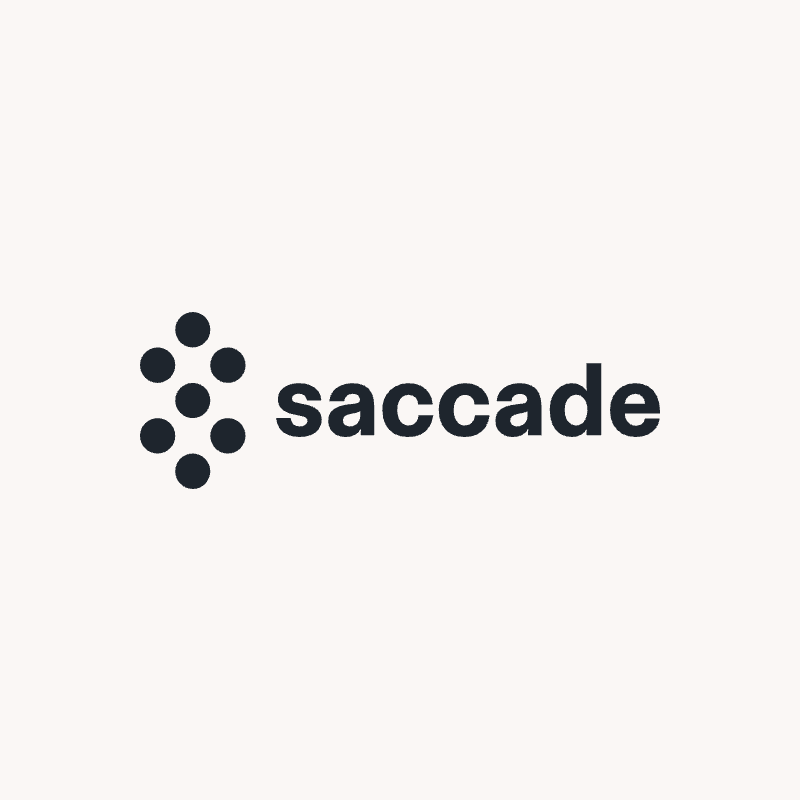
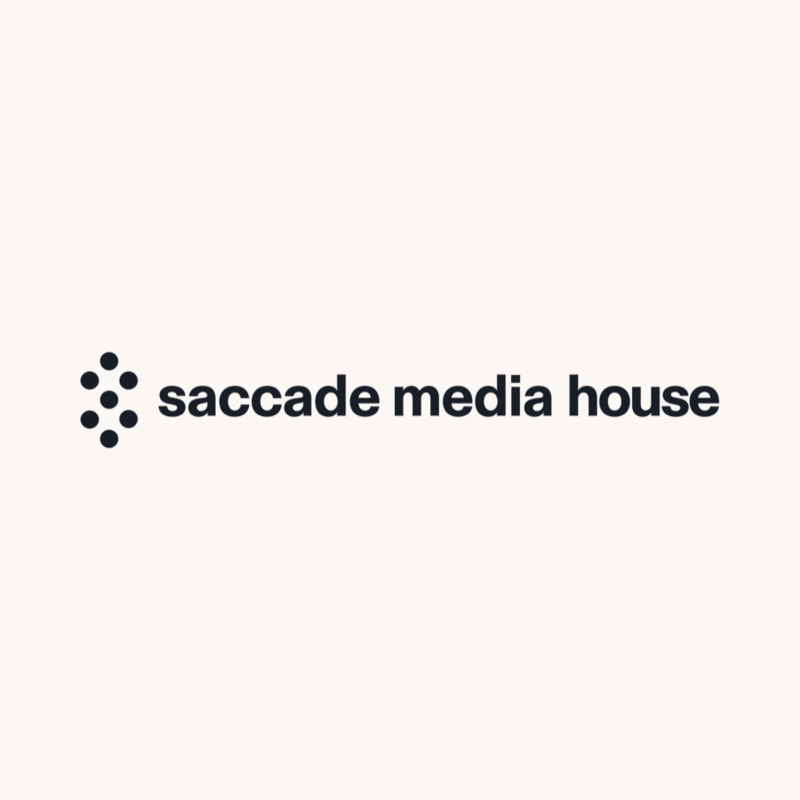
feat: полный логотип Saccade Media House на всех экранах и в подписи писем

Changed region(s): [[0.0938, 0.375, 0.9062, 0.625]]

diff --git a/app/views/errors/404.html b/app/views/errors/404.html
@@ -18,7 +18,7 @@
   </head>
   <body>
     <div class="box">
-      <div class="brand" role="img" aria-label="Saccade"><svg width="22" height="37" viewBox="0 0 310 520" fill="none" xmlns="http://www.w3.org/2000/svg" aria-hidden="true"><path d="M103.536 156.183C103.536 184.936 80.3584 208.245 51.7678 208.245C23.1772 208.245 0 184.936 0 156.183C0 127.429 23.1772 104.12 51.7678 104.12C80.3584 104.12 103.536 127.429 103.536 156.183Z" fill="#1E252D"/><path d="M206.467 52.0626C206.467 80.8161 183.431 104.125 155.013 104.125C126.596 104.125 103.559 80.8161 103.559 52.0626C103.559 23.3092 126.596 0 155.013 0C183.431 0 206.467 23.3092 206.467 52.0626Z" fill="#1E252D"/><path d="M206.467 260.003C206.467 288.582 183.431 311.75 155.013 311.75C126.596 311.75 103.559 288.582 103.559 260.003C103.559 231.424 126.596 208.256 155.013 208.256C183.431 208.256 206.467 231.424 206.467 260.003Z" fill="#1E252D"/><path d="M310 363.81C310 392.563 286.823 415.873 258.232 415.873C229.642 415.873 206.464 392.563 206.464 363.81C206.464 335.057 229.642 311.747 258.232 311.747C286.823 311.747 310 335.057 310 363.81Z" fill="#1E252D"/><path d="M206.467 467.937C206.467 496.691 183.431 520 155.013 520C126.596 520 103.559 496.691 103.559 467.937C103.559 439.184 126.596 415.875 155.013 415.875C183.431 415.875 206.467 439.184 206.467 467.937Z" fill="#1E252D"/><path d="M310 156.183C310 184.936 286.823 208.245 258.232 208.245C229.642 208.245 206.464 184.936 206.464 156.183C206.464 127.429 229.642 104.12 258.232 104.12C286.823 104.12 310 127.429 310 156.183Z" fill="#1E252D"/><path d="M103.536 363.81C103.536 392.563 80.3584 415.873 51.7678 415.873C23.1772 415.873 0 392.563 0 363.81C0 335.057 23.1772 311.747 51.7678 311.747C80.3584 311.747 103.536 335.057 103.536 363.81Z" fill="#1E252D"/></svg><svg width="109" height="21" viewBox="0 0 465 90" fill="none" xmlns="http://www.w3.org/2000/svg" aria-hidden="true"><path d="M28.6816 89.2267C22.9859 89.2267 18.0226 88.3154 13.7916 86.4927C9.56051 84.5872 6.26521 81.8947 3.90559 78.4151C1.54597 74.9355 0.244098 70.876 0 66.2365H17.6971C17.8599 69.3019 18.877 71.7873 20.7484 73.6928C22.6198 75.5155 25.2235 76.4268 28.5595 76.4268C31.4887 76.4268 33.7669 75.8054 35.3943 74.5627C37.103 73.32 37.9573 71.7045 37.9573 69.7161C37.9573 68.0592 37.3064 66.7751 36.0045 65.8637C34.7027 64.9524 32.5871 64.2068 29.658 63.6268L21.2366 61.8871C15.1341 60.6443 10.4149 58.4903 7.07886 55.4249C3.74285 52.2767 2.07483 48.1344 2.07483 42.9978C2.07483 39.4354 3.1326 36.2043 5.24812 33.3047C7.36364 30.405 10.3742 28.1267 14.2797 26.4698C18.1853 24.8128 22.6198 23.9843 27.5831 23.9843C33.116 23.9843 37.8759 24.8957 41.8629 26.7183C45.9312 28.4581 49.0638 30.9021 51.2607 34.0503C53.5389 37.1985 54.7187 40.8852 54.8001 45.1104H37.3471C37.103 42.625 36.1266 40.6367 34.4179 39.1454C32.7092 37.5713 30.4309 36.7843 27.5831 36.7843C25.1421 36.7843 23.108 37.2814 21.4807 38.2755C19.9347 39.2697 19.1617 40.6367 19.1617 42.3765C19.1617 43.9506 19.772 45.1933 20.9925 46.1046C22.213 46.9331 24.4098 47.6373 27.5831 48.2172L35.7604 49.957C41.8629 51.1169 46.6228 53.2295 50.0402 56.2948C53.4575 59.2774 55.1662 63.4197 55.1662 68.722C55.1662 72.6987 54.0678 76.2611 51.8709 79.4093C49.7554 82.4746 46.6635 84.8772 42.5952 86.617C38.6082 88.3568 33.9704 89.2267 28.6816 89.2267Z" fill="#1E252D"/><path d="M83.7029 89.2267C80.2041 89.2267 76.8274 88.4811 73.5728 86.9898C70.3995 85.4157 67.8365 83.1788 65.8837 80.2792C64.0123 77.2967 63.0766 73.8171 63.0766 69.8404C63.0766 63.4612 65.1921 58.7803 69.4231 55.7978C73.6542 52.7324 79.3904 50.7441 86.632 49.8327L95.1755 48.8386C97.4538 48.5072 99.0811 47.9687 100.057 47.2231C101.034 46.3946 101.522 45.2761 101.522 43.8677C101.522 41.8794 100.749 40.2224 99.2031 38.8969C97.6572 37.5713 95.5416 36.9085 92.8566 36.9085C89.9274 36.9085 87.5271 37.6956 85.6557 39.2697C83.7843 40.8438 82.6858 43.0392 82.3604 45.8561H64.4191C64.7446 41.6308 66.0871 37.8613 68.4467 34.5474C70.8877 31.2335 74.1423 28.6652 78.2107 26.8426C82.279 24.9371 86.9575 23.9843 92.2463 23.9843C98.3488 23.9843 103.353 25.0614 107.258 27.2154C111.245 29.2866 114.134 32.3519 115.924 36.4115C117.795 40.3881 118.731 45.2761 118.731 51.0755V86.9898H102.376V84.7529C102.376 83.0132 102.539 81.1491 102.865 79.1608C101.156 82.309 98.7149 84.7944 95.5416 86.617C92.3683 88.3568 88.4221 89.2267 83.7029 89.2267ZM89.1951 76.4268C91.5547 76.4268 93.7109 75.8883 95.6637 74.8113C97.6165 73.6514 99.1218 72.1187 100.18 70.2132C101.319 68.2249 101.888 65.988 101.888 63.5026V57.7861C101.237 58.366 100.424 58.8217 99.4472 59.1531C98.4708 59.4845 97.0469 59.8573 95.1755 60.2715L91.0258 61.0172C87.6898 61.6799 85.1675 62.6327 83.4588 63.8754C81.7501 65.1181 80.8957 66.8165 80.8957 68.9705C80.8957 71.2902 81.6687 73.1129 83.2147 74.4384C84.7607 75.764 86.7541 76.4268 89.1951 76.4268Z" fill="#1E252D"/><path d="M159.622 89.2267C153.276 89.2267 147.783 87.9426 143.146 85.3743C138.508 82.7232 134.928 78.9536 132.405 74.0656C129.883 69.1776 128.622 63.3369 128.622 56.5434C128.622 49.9156 130.005 44.1577 132.771 39.2697C135.619 34.2989 139.443 30.5293 144.244 27.961C149.126 25.3099 154.496 23.9843 160.355 23.9843C166.294 23.9843 171.38 25.1028 175.611 27.3397C179.923 29.5765 183.259 32.6833 185.619 36.66C187.978 40.5538 189.362 44.9862 189.768 49.957H172.071C171.909 46.5603 170.81 43.7435 168.776 41.5066C166.823 39.2697 164.057 38.1513 160.477 38.1513C157.954 38.1513 155.635 38.8555 153.52 40.2639C151.404 41.5894 149.736 43.6606 148.516 46.4774C147.295 49.2942 146.685 52.6496 146.685 56.5434C146.685 60.1887 147.255 63.4612 148.394 66.3608C149.533 69.1776 151.12 71.3731 153.154 72.9472C155.188 74.5213 157.547 75.3083 160.233 75.3083C163.894 75.3083 166.782 74.1485 168.898 71.8288C171.014 69.509 172.234 66.5265 172.559 62.8812H190.257C189.524 68.3492 187.897 73.0715 185.375 77.0481C182.934 80.942 179.516 83.9659 175.123 86.1199C170.81 88.1911 165.643 89.2267 159.622 89.2267Z" fill="#1E252D"/><path d="M227.917 89.2267C221.571 89.2267 216.079 87.9426 211.441 85.3743C206.803 82.7232 203.223 78.9536 200.7 74.0656C198.178 69.1776 196.917 63.3369 196.917 56.5434C196.917 49.9156 198.3 44.1577 201.067 39.2697C203.914 34.2989 207.739 30.5293 212.539 27.961C217.421 25.3099 222.791 23.9843 228.65 23.9843C234.589 23.9843 239.675 25.1028 243.906 27.3397C248.218 29.5765 251.554 32.6833 253.914 36.66C256.273 40.5538 257.657 44.9862 258.064 49.957H240.366C240.204 46.5603 239.105 43.7435 237.071 41.5066C235.118 39.2697 232.352 38.1513 228.772 38.1513C226.249 38.1513 223.93 38.8555 221.815 40.2639C219.699 41.5894 218.031 43.6606 216.811 46.4774C215.59 49.2942 214.98 52.6496 214.98 56.5434C214.98 60.1887 215.55 63.4612 216.689 66.3608C217.828 69.1776 219.415 71.3731 221.449 72.9472C223.483 74.5213 225.843 75.3083 228.528 75.3083C232.189 75.3083 235.078 74.1485 237.193 71.8288C239.309 69.509 240.529 66.5265 240.855 62.8812H258.552C257.819 68.3492 256.192 73.0715 253.67 77.0481C251.229 80.942 247.811 83.9659 243.418 86.1199C239.105 88.1911 233.938 89.2267 227.917 89.2267Z" fill="#1E252D"/><path d="M286.204 89.2267C282.706 89.2267 279.329 88.4811 276.074 86.9898C272.901 85.4157 270.338 83.1788 268.385 80.2792C266.514 77.2967 265.578 73.8171 265.578 69.8404C265.578 63.4612 267.694 58.7803 271.925 55.7978C276.156 52.7324 281.892 50.7441 289.134 49.8327L297.677 48.8386C299.955 48.5072 301.583 47.9687 302.559 47.2231C303.535 46.3946 304.024 45.2761 304.024 43.8677C304.024 41.8794 303.251 40.2224 301.705 38.8969C300.159 37.5713 298.043 36.9085 295.358 36.9085C292.429 36.9085 290.029 37.6956 288.157 39.2697C286.286 40.8438 285.187 43.0392 284.862 45.8561H266.921C267.246 41.6308 268.589 37.8613 270.948 34.5474C273.389 31.2335 276.644 28.6652 280.712 26.8426C284.781 24.9371 289.459 23.9843 294.748 23.9843C300.85 23.9843 305.854 25.0614 309.76 27.2154C313.747 29.2866 316.635 32.3519 318.425 36.4115C320.297 40.3881 321.233 45.2761 321.233 51.0755V86.9898H304.878V84.7529C304.878 83.0132 305.041 81.1491 305.366 79.1608C303.658 82.309 301.216 84.7944 298.043 86.617C294.87 88.3568 290.924 89.2267 286.204 89.2267ZM291.697 76.4268C294.056 76.4268 296.212 75.8883 298.165 74.8113C300.118 73.6514 301.623 72.1187 302.681 70.2132C303.82 68.2249 304.39 65.988 304.39 63.5026V57.7861C303.739 58.366 302.925 58.8217 301.949 59.1531C300.972 59.4845 299.548 59.8573 297.677 60.2715L293.527 61.0172C290.191 61.6799 287.669 62.6327 285.96 63.8754C284.252 65.1181 283.397 66.8165 283.397 68.9705C283.397 71.2902 284.17 73.1129 285.716 74.4384C287.262 75.764 289.256 76.4268 291.697 76.4268Z" fill="#1E252D"/><path d="M358.218 89.2267C353.092 89.2267 348.495 88.0254 344.427 85.6228C340.358 83.1374 337.144 79.4507 334.785 74.5627C332.507 69.6747 331.367 63.7097 331.367 56.6677C331.367 49.6256 332.629 43.6606 335.151 38.7726C337.673 33.8846 340.969 30.1979 345.037 27.7125C349.105 25.227 353.499 23.9843 358.218 23.9843C362.449 23.9843 366.07 24.9371 369.081 26.8426C372.091 28.6652 374.492 31.0678 376.282 34.0503C376.037 32.4762 375.915 30.4464 375.915 27.961V0H393.613V86.9898H375.915V84.8772C375.915 82.5575 376.037 80.6934 376.282 79.285C374.817 82.019 372.579 84.3801 369.569 86.3685C366.558 88.274 362.775 89.2267 358.218 89.2267ZM363.222 75.3083C365.826 75.3083 368.186 74.5213 370.301 72.9472C372.417 71.3731 374.044 69.1776 375.183 66.3608C376.322 63.544 376.892 60.3129 376.892 56.6677C376.892 51.034 375.631 46.5188 373.108 43.1221C370.586 39.7254 367.291 38.027 363.222 38.027C360.537 38.027 358.137 38.814 356.021 40.3881C353.906 41.9622 352.278 44.1577 351.139 46.9745C350 49.7085 349.431 52.9395 349.431 56.6677C349.431 60.3129 350 63.544 351.139 66.3608C352.278 69.1776 353.906 71.3731 356.021 72.9472C358.218 74.5213 360.619 75.3083 363.222 75.3083Z" fill="#1E252D"/><path d="M435.431 89.2267C429.328 89.2267 423.917 87.9426 419.198 85.3743C414.56 82.806 410.899 79.0779 408.214 74.1899C405.61 69.219 404.308 63.2955 404.308 56.4191C404.308 50.0399 405.61 44.4062 408.214 39.5182C410.817 34.5474 414.438 30.7364 419.076 28.0853C423.795 25.3513 429.125 23.9843 435.064 23.9843C441.167 23.9843 446.456 25.3513 450.931 28.0853C455.406 30.8193 458.823 34.7131 461.183 39.7668C463.543 44.7376 464.722 50.5784 464.722 57.289V60.7686H422.249C422.249 63.5854 422.819 66.1123 423.958 68.3492C425.178 70.586 426.765 72.3673 428.718 73.6928C430.752 74.9355 432.99 75.5569 435.431 75.5569C438.36 75.5569 440.841 74.8113 442.876 73.32C444.91 71.7459 446.13 69.5919 446.537 66.8579H464.356C463.949 71.0831 462.485 74.8941 459.962 78.2908C457.521 81.6876 454.185 84.3801 449.954 86.3685C445.723 88.274 440.882 89.2267 435.431 89.2267ZM446.659 48.9628C446.578 45.3176 445.439 42.4179 443.242 40.2639C441.126 38.027 438.36 36.9085 434.942 36.9085C431.444 36.9085 428.514 38.027 426.155 40.2639C423.795 42.5007 422.453 45.4004 422.127 48.9628H446.659Z" fill="#1E252D"/></svg></div>
+      <div class="brand" role="img" aria-label="Saccade Media House"><img src="/saccade-media-house-logo.png" alt="" aria-hidden="true" width="221" height="34" style="display:block;max-width:100%;height:auto"></div>
       <p class="code">404</p>
       <h1>Page not found</h1>
       <p>The link may be out of date. Please use the latest e-mail from Saccade Legal, or write to us.</p>

diff --git a/app/views/errors/500.html b/app/views/errors/500.html
@@ -18,7 +18,7 @@
   </head>
   <body>
     <div class="box">
-      <div class="brand" role="img" aria-label="Saccade"><svg width="22" height="37" viewBox="0 0 310 520" fill="none" xmlns="http://www.w3.org/2000/svg" aria-hidden="true"><path d="M103.536 156.183C103.536 184.936 80.3584 208.245 51.7678 208.245C23.1772 208.245 0 184.936 0 156.183C0 127.429 23.1772 104.12 51.7678 104.12C80.3584 104.12 103.536 127.429 103.536 156.183Z" fill="#1E252D"/><path d="M206.467 52.0626C206.467 80.8161 183.431 104.125 155.013 104.125C126.596 104.125 103.559 80.8161 103.559 52.0626C103.559 23.3092 126.596 0 155.013 0C183.431 0 206.467 23.3092 206.467 52.0626Z" fill="#1E252D"/><path d="M206.467 260.003C206.467 288.582 183.431 311.75 155.013 311.75C126.596 311.75 103.559 288.582 103.559 260.003C103.559 231.424 126.596 208.256 155.013 208.256C183.431 208.256 206.467 231.424 206.467 260.003Z" fill="#1E252D"/><path d="M310 363.81C310 392.563 286.823 415.873 258.232 415.873C229.642 415.873 206.464 392.563 206.464 363.81C206.464 335.057 229.642 311.747 258.232 311.747C286.823 311.747 310 335.057 310 363.81Z" fill="#1E252D"/><path d="M206.467 467.937C206.467 496.691 183.431 520 155.013 520C126.596 520 103.559 496.691 103.559 467.937C103.559 439.184 126.596 415.875 155.013 415.875C183.431 415.875 206.467 439.184 206.467 467.937Z" fill="#1E252D"/><path d="M310 156.183C310 184.936 286.823 208.245 258.232 208.245C229.642 208.245 206.464 184.936 206.464 156.183C206.464 127.429 229.642 104.12 258.232 104.12C286.823 104.12 310 127.429 310 156.183Z" fill="#1E252D"/><path d="M103.536 363.81C103.536 392.563 80.3584 415.873 51.7678 415.873C23.1772 415.873 0 392.563 0 363.81C0 335.057 23.1772 311.747 51.7678 311.747C80.3584 311.747 103.536 335.057 103.536 363.81Z" fill="#1E252D"/></svg><svg width="109" height="21" viewBox="0 0 465 90" fill="none" xmlns="http://www.w3.org/2000/svg" aria-hidden="true"><path d="M28.6816 89.2267C22.9859 89.2267 18.0226 88.3154 13.7916 86.4927C9.56051 84.5872 6.26521 81.8947 3.90559 78.4151C1.54597 74.9355 0.244098 70.876 0 66.2365H17.6971C17.8599 69.3019 18.877 71.7873 20.7484 73.6928C22.6198 75.5155 25.2235 76.4268 28.5595 76.4268C31.4887 76.4268 33.7669 75.8054 35.3943 74.5627C37.103 73.32 37.9573 71.7045 37.9573 69.7161C37.9573 68.0592 37.3064 66.7751 36.0045 65.8637C34.7027 64.9524 32.5871 64.2068 29.658 63.6268L21.2366 61.8871C15.1341 60.6443 10.4149 58.4903 7.07886 55.4249C3.74285 52.2767 2.07483 48.1344 2.07483 42.9978C2.07483 39.4354 3.1326 36.2043 5.24812 33.3047C7.36364 30.405 10.3742 28.1267 14.2797 26.4698C18.1853 24.8128 22.6198 23.9843 27.5831 23.9843C33.116 23.9843 37.8759 24.8957 41.8629 26.7183C45.9312 28.4581 49.0638 30.9021 51.2607 34.0503C53.5389 37.1985 54.7187 40.8852 54.8001 45.1104H37.3471C37.103 42.625 36.1266 40.6367 34.4179 39.1454C32.7092 37.5713 30.4309 36.7843 27.5831 36.7843C25.1421 36.7843 23.108 37.2814 21.4807 38.2755C19.9347 39.2697 19.1617 40.6367 19.1617 42.3765C19.1617 43.9506 19.772 45.1933 20.9925 46.1046C22.213 46.9331 24.4098 47.6373 27.5831 48.2172L35.7604 49.957C41.8629 51.1169 46.6228 53.2295 50.0402 56.2948C53.4575 59.2774 55.1662 63.4197 55.1662 68.722C55.1662 72.6987 54.0678 76.2611 51.8709 79.4093C49.7554 82.4746 46.6635 84.8772 42.5952 86.617C38.6082 88.3568 33.9704 89.2267 28.6816 89.2267Z" fill="#1E252D"/><path d="M83.7029 89.2267C80.2041 89.2267 76.8274 88.4811 73.5728 86.9898C70.3995 85.4157 67.8365 83.1788 65.8837 80.2792C64.0123 77.2967 63.0766 73.8171 63.0766 69.8404C63.0766 63.4612 65.1921 58.7803 69.4231 55.7978C73.6542 52.7324 79.3904 50.7441 86.632 49.8327L95.1755 48.8386C97.4538 48.5072 99.0811 47.9687 100.057 47.2231C101.034 46.3946 101.522 45.2761 101.522 43.8677C101.522 41.8794 100.749 40.2224 99.2031 38.8969C97.6572 37.5713 95.5416 36.9085 92.8566 36.9085C89.9274 36.9085 87.5271 37.6956 85.6557 39.2697C83.7843 40.8438 82.6858 43.0392 82.3604 45.8561H64.4191C64.7446 41.6308 66.0871 37.8613 68.4467 34.5474C70.8877 31.2335 74.1423 28.6652 78.2107 26.8426C82.279 24.9371 86.9575 23.9843 92.2463 23.9843C98.3488 23.9843 103.353 25.0614 107.258 27.2154C111.245 29.2866 114.134 32.3519 115.924 36.4115C117.795 40.3881 118.731 45.2761 118.731 51.0755V86.9898H102.376V84.7529C102.376 83.0132 102.539 81.1491 102.865 79.1608C101.156 82.309 98.7149 84.7944 95.5416 86.617C92.3683 88.3568 88.4221 89.2267 83.7029 89.2267ZM89.1951 76.4268C91.5547 76.4268 93.7109 75.8883 95.6637 74.8113C97.6165 73.6514 99.1218 72.1187 100.18 70.2132C101.319 68.2249 101.888 65.988 101.888 63.5026V57.7861C101.237 58.366 100.424 58.8217 99.4472 59.1531C98.4708 59.4845 97.0469 59.8573 95.1755 60.2715L91.0258 61.0172C87.6898 61.6799 85.1675 62.6327 83.4588 63.8754C81.7501 65.1181 80.8957 66.8165 80.8957 68.9705C80.8957 71.2902 81.6687 73.1129 83.2147 74.4384C84.7607 75.764 86.7541 76.4268 89.1951 76.4268Z" fill="#1E252D"/><path d="M159.622 89.2267C153.276 89.2267 147.783 87.9426 143.146 85.3743C138.508 82.7232 134.928 78.9536 132.405 74.0656C129.883 69.1776 128.622 63.3369 128.622 56.5434C128.622 49.9156 130.005 44.1577 132.771 39.2697C135.619 34.2989 139.443 30.5293 144.244 27.961C149.126 25.3099 154.496 23.9843 160.355 23.9843C166.294 23.9843 171.38 25.1028 175.611 27.3397C179.923 29.5765 183.259 32.6833 185.619 36.66C187.978 40.5538 189.362 44.9862 189.768 49.957H172.071C171.909 46.5603 170.81 43.7435 168.776 41.5066C166.823 39.2697 164.057 38.1513 160.477 38.1513C157.954 38.1513 155.635 38.8555 153.52 40.2639C151.404 41.5894 149.736 43.6606 148.516 46.4774C147.295 49.2942 146.685 52.6496 146.685 56.5434C146.685 60.1887 147.255 63.4612 148.394 66.3608C149.533 69.1776 151.12 71.3731 153.154 72.9472C155.188 74.5213 157.547 75.3083 160.233 75.3083C163.894 75.3083 166.782 74.1485 168.898 71.8288C171.014 69.509 172.234 66.5265 172.559 62.8812H190.257C189.524 68.3492 187.897 73.0715 185.375 77.0481C182.934 80.942 179.516 83.9659 175.123 86.1199C170.81 88.1911 165.643 89.2267 159.622 89.2267Z" fill="#1E252D"/><path d="M227.917 89.2267C221.571 89.2267 216.079 87.9426 211.441 85.3743C206.803 82.7232 203.223 78.9536 200.7 74.0656C198.178 69.1776 196.917 63.3369 196.917 56.5434C196.917 49.9156 198.3 44.1577 201.067 39.2697C203.914 34.2989 207.739 30.5293 212.539 27.961C217.421 25.3099 222.791 23.9843 228.65 23.9843C234.589 23.9843 239.675 25.1028 243.906 27.3397C248.218 29.5765 251.554 32.6833 253.914 36.66C256.273 40.5538 257.657 44.9862 258.064 49.957H240.366C240.204 46.5603 239.105 43.7435 237.071 41.5066C235.118 39.2697 232.352 38.1513 228.772 38.1513C226.249 38.1513 223.93 38.8555 221.815 40.2639C219.699 41.5894 218.031 43.6606 216.811 46.4774C215.59 49.2942 214.98 52.6496 214.98 56.5434C214.98 60.1887 215.55 63.4612 216.689 66.3608C217.828 69.1776 219.415 71.3731 221.449 72.9472C223.483 74.5213 225.843 75.3083 228.528 75.3083C232.189 75.3083 235.078 74.1485 237.193 71.8288C239.309 69.509 240.529 66.5265 240.855 62.8812H258.552C257.819 68.3492 256.192 73.0715 253.67 77.0481C251.229 80.942 247.811 83.9659 243.418 86.1199C239.105 88.1911 233.938 89.2267 227.917 89.2267Z" fill="#1E252D"/><path d="M286.204 89.2267C282.706 89.2267 279.329 88.4811 276.074 86.9898C272.901 85.4157 270.338 83.1788 268.385 80.2792C266.514 77.2967 265.578 73.8171 265.578 69.8404C265.578 63.4612 267.694 58.7803 271.925 55.7978C276.156 52.7324 281.892 50.7441 289.134 49.8327L297.677 48.8386C299.955 48.5072 301.583 47.9687 302.559 47.2231C303.535 46.3946 304.024 45.2761 304.024 43.8677C304.024 41.8794 303.251 40.2224 301.705 38.8969C300.159 37.5713 298.043 36.9085 295.358 36.9085C292.429 36.9085 290.029 37.6956 288.157 39.2697C286.286 40.8438 285.187 43.0392 284.862 45.8561H266.921C267.246 41.6308 268.589 37.8613 270.948 34.5474C273.389 31.2335 276.644 28.6652 280.712 26.8426C284.781 24.9371 289.459 23.9843 294.748 23.9843C300.85 23.9843 305.854 25.0614 309.76 27.2154C313.747 29.2866 316.635 32.3519 318.425 36.4115C320.297 40.3881 321.233 45.2761 321.233 51.0755V86.9898H304.878V84.7529C304.878 83.0132 305.041 81.1491 305.366 79.1608C303.658 82.309 301.216 84.7944 298.043 86.617C294.87 88.3568 290.924 89.2267 286.204 89.2267ZM291.697 76.4268C294.056 76.4268 296.212 75.8883 298.165 74.8113C300.118 73.6514 301.623 72.1187 302.681 70.2132C303.82 68.2249 304.39 65.988 304.39 63.5026V57.7861C303.739 58.366 302.925 58.8217 301.949 59.1531C300.972 59.4845 299.548 59.8573 297.677 60.2715L293.527 61.0172C290.191 61.6799 287.669 62.6327 285.96 63.8754C284.252 65.1181 283.397 66.8165 283.397 68.9705C283.397 71.2902 284.17 73.1129 285.716 74.4384C287.262 75.764 289.256 76.4268 291.697 76.4268Z" fill="#1E252D"/><path d="M358.218 89.2267C353.092 89.2267 348.495 88.0254 344.427 85.6228C340.358 83.1374 337.144 79.4507 334.785 74.5627C332.507 69.6747 331.367 63.7097 331.367 56.6677C331.367 49.6256 332.629 43.6606 335.151 38.7726C337.673 33.8846 340.969 30.1979 345.037 27.7125C349.105 25.227 353.499 23.9843 358.218 23.9843C362.449 23.9843 366.07 24.9371 369.081 26.8426C372.091 28.6652 374.492 31.0678 376.282 34.0503C376.037 32.4762 375.915 30.4464 375.915 27.961V0H393.613V86.9898H375.915V84.8772C375.915 82.5575 376.037 80.6934 376.282 79.285C374.817 82.019 372.579 84.3801 369.569 86.3685C366.558 88.274 362.775 89.2267 358.218 89.2267ZM363.222 75.3083C365.826 75.3083 368.186 74.5213 370.301 72.9472C372.417 71.3731 374.044 69.1776 375.183 66.3608C376.322 63.544 376.892 60.3129 376.892 56.6677C376.892 51.034 375.631 46.5188 373.108 43.1221C370.586 39.7254 367.291 38.027 363.222 38.027C360.537 38.027 358.137 38.814 356.021 40.3881C353.906 41.9622 352.278 44.1577 351.139 46.9745C350 49.7085 349.431 52.9395 349.431 56.6677C349.431 60.3129 350 63.544 351.139 66.3608C352.278 69.1776 353.906 71.3731 356.021 72.9472C358.218 74.5213 360.619 75.3083 363.222 75.3083Z" fill="#1E252D"/><path d="M435.431 89.2267C429.328 89.2267 423.917 87.9426 419.198 85.3743C414.56 82.806 410.899 79.0779 408.214 74.1899C405.61 69.219 404.308 63.2955 404.308 56.4191C404.308 50.0399 405.61 44.4062 408.214 39.5182C410.817 34.5474 414.438 30.7364 419.076 28.0853C423.795 25.3513 429.125 23.9843 435.064 23.9843C441.167 23.9843 446.456 25.3513 450.931 28.0853C455.406 30.8193 458.823 34.7131 461.183 39.7668C463.543 44.7376 464.722 50.5784 464.722 57.289V60.7686H422.249C422.249 63.5854 422.819 66.1123 423.958 68.3492C425.178 70.586 426.765 72.3673 428.718 73.6928C430.752 74.9355 432.99 75.5569 435.431 75.5569C438.36 75.5569 440.841 74.8113 442.876 73.32C444.91 71.7459 446.13 69.5919 446.537 66.8579H464.356C463.949 71.0831 462.485 74.8941 459.962 78.2908C457.521 81.6876 454.185 84.3801 449.954 86.3685C445.723 88.274 440.882 89.2267 435.431 89.2267ZM446.659 48.9628C446.578 45.3176 445.439 42.4179 443.242 40.2639C441.126 38.027 438.36 36.9085 434.942 36.9085C431.444 36.9085 428.514 38.027 426.155 40.2639C423.795 42.5007 422.453 45.4004 422.127 48.9628H446.659Z" fill="#1E252D"/></svg></div>
+      <div class="brand" role="img" aria-label="Saccade Media House"><img src="/saccade-media-house-logo.png" alt="" aria-hidden="true" width="221" height="34" style="display:block;max-width:100%;height:auto"></div>
       <p class="code">500</p>
       <h1>Something went wrong</h1>
       <p>We have been notified. Please try again in a few minutes, or write to us.</p>

diff --git a/app/views/errors/422.html b/app/views/errors/422.html
@@ -18,7 +18,7 @@
   </head>
   <body>
     <div class="box">
-      <div class="brand" role="img" aria-label="Saccade"><svg width="22" height="37" viewBox="0 0 310 520" fill="none" xmlns="http://www.w3.org/2000/svg" aria-hidden="true"><path d="M103.536 156.183C103.536 184.936 80.3584 208.245 51.7678 208.245C23.1772 208.245 0 184.936 0 156.183C0 127.429 23.1772 104.12 51.7678 104.12C80.3584 104.12 103.536 127.429 103.536 156.183Z" fill="#1E252D"/><path d="M206.467 52.0626C206.467 80.8161 183.431 104.125 155.013 104.125C126.596 104.125 103.559 80.8161 103.559 52.0626C103.559 23.3092 126.596 0 155.013 0C183.431 0 206.467 23.3092 206.467 52.0626Z" fill="#1E252D"/><path d="M206.467 260.003C206.467 288.582 183.431 311.75 155.013 311.75C126.596 311.75 103.559 288.582 103.559 260.003C103.559 231.424 126.596 208.256 155.013 208.256C183.431 208.256 206.467 231.424 206.467 260.003Z" fill="#1E252D"/><path d="M310 363.81C310 392.563 286.823 415.873 258.232 415.873C229.642 415.873 206.464 392.563 206.464 363.81C206.464 335.057 229.642 311.747 258.232 311.747C286.823 311.747 310 335.057 310 363.81Z" fill="#1E252D"/><path d="M206.467 467.937C206.467 496.691 183.431 520 155.013 520C126.596 520 103.559 496.691 103.559 467.937C103.559 439.184 126.596 415.875 155.013 415.875C183.431 415.875 206.467 439.184 206.467 467.937Z" fill="#1E252D"/><path d="M310 156.183C310 184.936 286.823 208.245 258.232 208.245C229.642 208.245 206.464 184.936 206.464 156.183C206.464 127.429 229.642 104.12 258.232 104.12C286.823 104.12 310 127.429 310 156.183Z" fill="#1E252D"/><path d="M103.536 363.81C103.536 392.563 80.3584 415.873 51.7678 415.873C23.1772 415.873 0 392.563 0 363.81C0 335.057 23.1772 311.747 51.7678 311.747C80.3584 311.747 103.536 335.057 103.536 363.81Z" fill="#1E252D"/></svg><svg width="109" height="21" viewBox="0 0 465 90" fill="none" xmlns="http://www.w3.org/2000/svg" aria-hidden="true"><path d="M28.6816 89.2267C22.9859 89.2267 18.0226 88.3154 13.7916 86.4927C9.56051 84.5872 6.26521 81.8947 3.90559 78.4151C1.54597 74.9355 0.244098 70.876 0 66.2365H17.6971C17.8599 69.3019 18.877 71.7873 20.7484 73.6928C22.6198 75.5155 25.2235 76.4268 28.5595 76.4268C31.4887 76.4268 33.7669 75.8054 35.3943 74.5627C37.103 73.32 37.9573 71.7045 37.9573 69.7161C37.9573 68.0592 37.3064 66.7751 36.0045 65.8637C34.7027 64.9524 32.5871 64.2068 29.658 63.6268L21.2366 61.8871C15.1341 60.6443 10.4149 58.4903 7.07886 55.4249C3.74285 52.2767 2.07483 48.1344 2.07483 42.9978C2.07483 39.4354 3.1326 36.2043 5.24812 33.3047C7.36364 30.405 10.3742 28.1267 14.2797 26.4698C18.1853 24.8128 22.6198 23.9843 27.5831 23.9843C33.116 23.9843 37.8759 24.8957 41.8629 26.7183C45.9312 28.4581 49.0638 30.9021 51.2607 34.0503C53.5389 37.1985 54.7187 40.8852 54.8001 45.1104H37.3471C37.103 42.625 36.1266 40.6367 34.4179 39.1454C32.7092 37.5713 30.4309 36.7843 27.5831 36.7843C25.1421 36.7843 23.108 37.2814 21.4807 38.2755C19.9347 39.2697 19.1617 40.6367 19.1617 42.3765C19.1617 43.9506 19.772 45.1933 20.9925 46.1046C22.213 46.9331 24.4098 47.6373 27.5831 48.2172L35.7604 49.957C41.8629 51.1169 46.6228 53.2295 50.0402 56.2948C53.4575 59.2774 55.1662 63.4197 55.1662 68.722C55.1662 72.6987 54.0678 76.2611 51.8709 79.4093C49.7554 82.4746 46.6635 84.8772 42.5952 86.617C38.6082 88.3568 33.9704 89.2267 28.6816 89.2267Z" fill="#1E252D"/><path d="M83.7029 89.2267C80.2041 89.2267 76.8274 88.4811 73.5728 86.9898C70.3995 85.4157 67.8365 83.1788 65.8837 80.2792C64.0123 77.2967 63.0766 73.8171 63.0766 69.8404C63.0766 63.4612 65.1921 58.7803 69.4231 55.7978C73.6542 52.7324 79.3904 50.7441 86.632 49.8327L95.1755 48.8386C97.4538 48.5072 99.0811 47.9687 100.057 47.2231C101.034 46.3946 101.522 45.2761 101.522 43.8677C101.522 41.8794 100.749 40.2224 99.2031 38.8969C97.6572 37.5713 95.5416 36.9085 92.8566 36.9085C89.9274 36.9085 87.5271 37.6956 85.6557 39.2697C83.7843 40.8438 82.6858 43.0392 82.3604 45.8561H64.4191C64.7446 41.6308 66.0871 37.8613 68.4467 34.5474C70.8877 31.2335 74.1423 28.6652 78.2107 26.8426C82.279 24.9371 86.9575 23.9843 92.2463 23.9843C98.3488 23.9843 103.353 25.0614 107.258 27.2154C111.245 29.2866 114.134 32.3519 115.924 36.4115C117.795 40.3881 118.731 45.2761 118.731 51.0755V86.9898H102.376V84.7529C102.376 83.0132 102.539 81.1491 102.865 79.1608C101.156 82.309 98.7149 84.7944 95.5416 86.617C92.3683 88.3568 88.4221 89.2267 83.7029 89.2267ZM89.1951 76.4268C91.5547 76.4268 93.7109 75.8883 95.6637 74.8113C97.6165 73.6514 99.1218 72.1187 100.18 70.2132C101.319 68.2249 101.888 65.988 101.888 63.5026V57.7861C101.237 58.366 100.424 58.8217 99.4472 59.1531C98.4708 59.4845 97.0469 59.8573 95.1755 60.2715L91.0258 61.0172C87.6898 61.6799 85.1675 62.6327 83.4588 63.8754C81.7501 65.1181 80.8957 66.8165 80.8957 68.9705C80.8957 71.2902 81.6687 73.1129 83.2147 74.4384C84.7607 75.764 86.7541 76.4268 89.1951 76.4268Z" fill="#1E252D"/><path d="M159.622 89.2267C153.276 89.2267 147.783 87.9426 143.146 85.3743C138.508 82.7232 134.928 78.9536 132.405 74.0656C129.883 69.1776 128.622 63.3369 128.622 56.5434C128.622 49.9156 130.005 44.1577 132.771 39.2697C135.619 34.2989 139.443 30.5293 144.244 27.961C149.126 25.3099 154.496 23.9843 160.355 23.9843C166.294 23.9843 171.38 25.1028 175.611 27.3397C179.923 29.5765 183.259 32.6833 185.619 36.66C187.978 40.5538 189.362 44.9862 189.768 49.957H172.071C171.909 46.5603 170.81 43.7435 168.776 41.5066C166.823 39.2697 164.057 38.1513 160.477 38.1513C157.954 38.1513 155.635 38.8555 153.52 40.2639C151.404 41.5894 149.736 43.6606 148.516 46.4774C147.295 49.2942 146.685 52.6496 146.685 56.5434C146.685 60.1887 147.255 63.4612 148.394 66.3608C149.533 69.1776 151.12 71.3731 153.154 72.9472C155.188 74.5213 157.547 75.3083 160.233 75.3083C163.894 75.3083 166.782 74.1485 168.898 71.8288C171.014 69.509 172.234 66.5265 172.559 62.8812H190.257C189.524 68.3492 187.897 73.0715 185.375 77.0481C182.934 80.942 179.516 83.9659 175.123 86.1199C170.81 88.1911 165.643 89.2267 159.622 89.2267Z" fill="#1E252D"/><path d="M227.917 89.2267C221.571 89.2267 216.079 87.9426 211.441 85.3743C206.803 82.7232 203.223 78.9536 200.7 74.0656C198.178 69.1776 196.917 63.3369 196.917 56.5434C196.917 49.9156 198.3 44.1577 201.067 39.2697C203.914 34.2989 207.739 30.5293 212.539 27.961C217.421 25.3099 222.791 23.9843 228.65 23.9843C234.589 23.9843 239.675 25.1028 243.906 27.3397C248.218 29.5765 251.554 32.6833 253.914 36.66C256.273 40.5538 257.657 44.9862 258.064 49.957H240.366C240.204 46.5603 239.105 43.7435 237.071 41.5066C235.118 39.2697 232.352 38.1513 228.772 38.1513C226.249 38.1513 223.93 38.8555 221.815 40.2639C219.699 41.5894 218.031 43.6606 216.811 46.4774C215.59 49.2942 214.98 52.6496 214.98 56.5434C214.98 60.1887 215.55 63.4612 216.689 66.3608C217.828 69.1776 219.415 71.3731 221.449 72.9472C223.483 74.5213 225.843 75.3083 228.528 75.3083C232.189 75.3083 235.078 74.1485 237.193 71.8288C239.309 69.509 240.529 66.5265 240.855 62.8812H258.552C257.819 68.3492 256.192 73.0715 253.67 77.0481C251.229 80.942 247.811 83.9659 243.418 86.1199C239.105 88.1911 233.938 89.2267 227.917 89.2267Z" fill="#1E252D"/><path d="M286.204 89.2267C282.706 89.2267 279.329 88.4811 276.074 86.9898C272.901 85.4157 270.338 83.1788 268.385 80.2792C266.514 77.2967 265.578 73.8171 265.578 69.8404C265.578 63.4612 267.694 58.7803 271.925 55.7978C276.156 52.7324 281.892 50.7441 289.134 49.8327L297.677 48.8386C299.955 48.5072 301.583 47.9687 302.559 47.2231C303.535 46.3946 304.024 45.2761 304.024 43.8677C304.024 41.8794 303.251 40.2224 301.705 38.8969C300.159 37.5713 298.043 36.9085 295.358 36.9085C292.429 36.9085 290.029 37.6956 288.157 39.2697C286.286 40.8438 285.187 43.0392 284.862 45.8561H266.921C267.246 41.6308 268.589 37.8613 270.948 34.5474C273.389 31.2335 276.644 28.6652 280.712 26.8426C284.781 24.9371 289.459 23.9843 294.748 23.9843C300.85 23.9843 305.854 25.0614 309.76 27.2154C313.747 29.2866 316.635 32.3519 318.425 36.4115C320.297 40.3881 321.233 45.2761 321.233 51.0755V86.9898H304.878V84.7529C304.878 83.0132 305.041 81.1491 305.366 79.1608C303.658 82.309 301.216 84.7944 298.043 86.617C294.87 88.3568 290.924 89.2267 286.204 89.2267ZM291.697 76.4268C294.056 76.4268 296.212 75.8883 298.165 74.8113C300.118 73.6514 301.623 72.1187 302.681 70.2132C303.82 68.2249 304.39 65.988 304.39 63.5026V57.7861C303.739 58.366 302.925 58.8217 301.949 59.1531C300.972 59.4845 299.548 59.8573 297.677 60.2715L293.527 61.0172C290.191 61.6799 287.669 62.6327 285.96 63.8754C284.252 65.1181 283.397 66.8165 283.397 68.9705C283.397 71.2902 284.17 73.1129 285.716 74.4384C287.262 75.764 289.256 76.4268 291.697 76.4268Z" fill="#1E252D"/><path d="M358.218 89.2267C353.092 89.2267 348.495 88.0254 344.427 85.6228C340.358 83.1374 337.144 79.4507 334.785 74.5627C332.507 69.6747 331.367 63.7097 331.367 56.6677C331.367 49.6256 332.629 43.6606 335.151 38.7726C337.673 33.8846 340.969 30.1979 345.037 27.7125C349.105 25.227 353.499 23.9843 358.218 23.9843C362.449 23.9843 366.07 24.9371 369.081 26.8426C372.091 28.6652 374.492 31.0678 376.282 34.0503C376.037 32.4762 375.915 30.4464 375.915 27.961V0H393.613V86.9898H375.915V84.8772C375.915 82.5575 376.037 80.6934 376.282 79.285C374.817 82.019 372.579 84.3801 369.569 86.3685C366.558 88.274 362.775 89.2267 358.218 89.2267ZM363.222 75.3083C365.826 75.3083 368.186 74.5213 370.301 72.9472C372.417 71.3731 374.044 69.1776 375.183 66.3608C376.322 63.544 376.892 60.3129 376.892 56.6677C376.892 51.034 375.631 46.5188 373.108 43.1221C370.586 39.7254 367.291 38.027 363.222 38.027C360.537 38.027 358.137 38.814 356.021 40.3881C353.906 41.9622 352.278 44.1577 351.139 46.9745C350 49.7085 349.431 52.9395 349.431 56.6677C349.431 60.3129 350 63.544 351.139 66.3608C352.278 69.1776 353.906 71.3731 356.021 72.9472C358.218 74.5213 360.619 75.3083 363.222 75.3083Z" fill="#1E252D"/><path d="M435.431 89.2267C429.328 89.2267 423.917 87.9426 419.198 85.3743C414.56 82.806 410.899 79.0779 408.214 74.1899C405.61 69.219 404.308 63.2955 404.308 56.4191C404.308 50.0399 405.61 44.4062 408.214 39.5182C410.817 34.5474 414.438 30.7364 419.076 28.0853C423.795 25.3513 429.125 23.9843 435.064 23.9843C441.167 23.9843 446.456 25.3513 450.931 28.0853C455.406 30.8193 458.823 34.7131 461.183 39.7668C463.543 44.7376 464.722 50.5784 464.722 57.289V60.7686H422.249C422.249 63.5854 422.819 66.1123 423.958 68.3492C425.178 70.586 426.765 72.3673 428.718 73.6928C430.752 74.9355 432.99 75.5569 435.431 75.5569C438.36 75.5569 440.841 74.8113 442.876 73.32C444.91 71.7459 446.13 69.5919 446.537 66.8579H464.356C463.949 71.0831 462.485 74.8941 459.962 78.2908C457.521 81.6876 454.185 84.3801 449.954 86.3685C445.723 88.274 440.882 89.2267 435.431 89.2267ZM446.659 48.9628C446.578 45.3176 445.439 42.4179 443.242 40.2639C441.126 38.027 438.36 36.9085 434.942 36.9085C431.444 36.9085 428.514 38.027 426.155 40.2639C423.795 42.5007 422.453 45.4004 422.127 48.9628H446.659Z" fill="#1E252D"/></svg></div>
+      <div class="brand" role="img" aria-label="Saccade Media House"><img src="/saccade-media-house-logo.png" alt="" aria-hidden="true" width="221" height="34" style="display:block;max-width:100%;height:auto"></div>
       <p class="code">422</p>
       <h1>Request rejected</h1>
       <p>The page was open too long. Please reload it and try again.</p>
